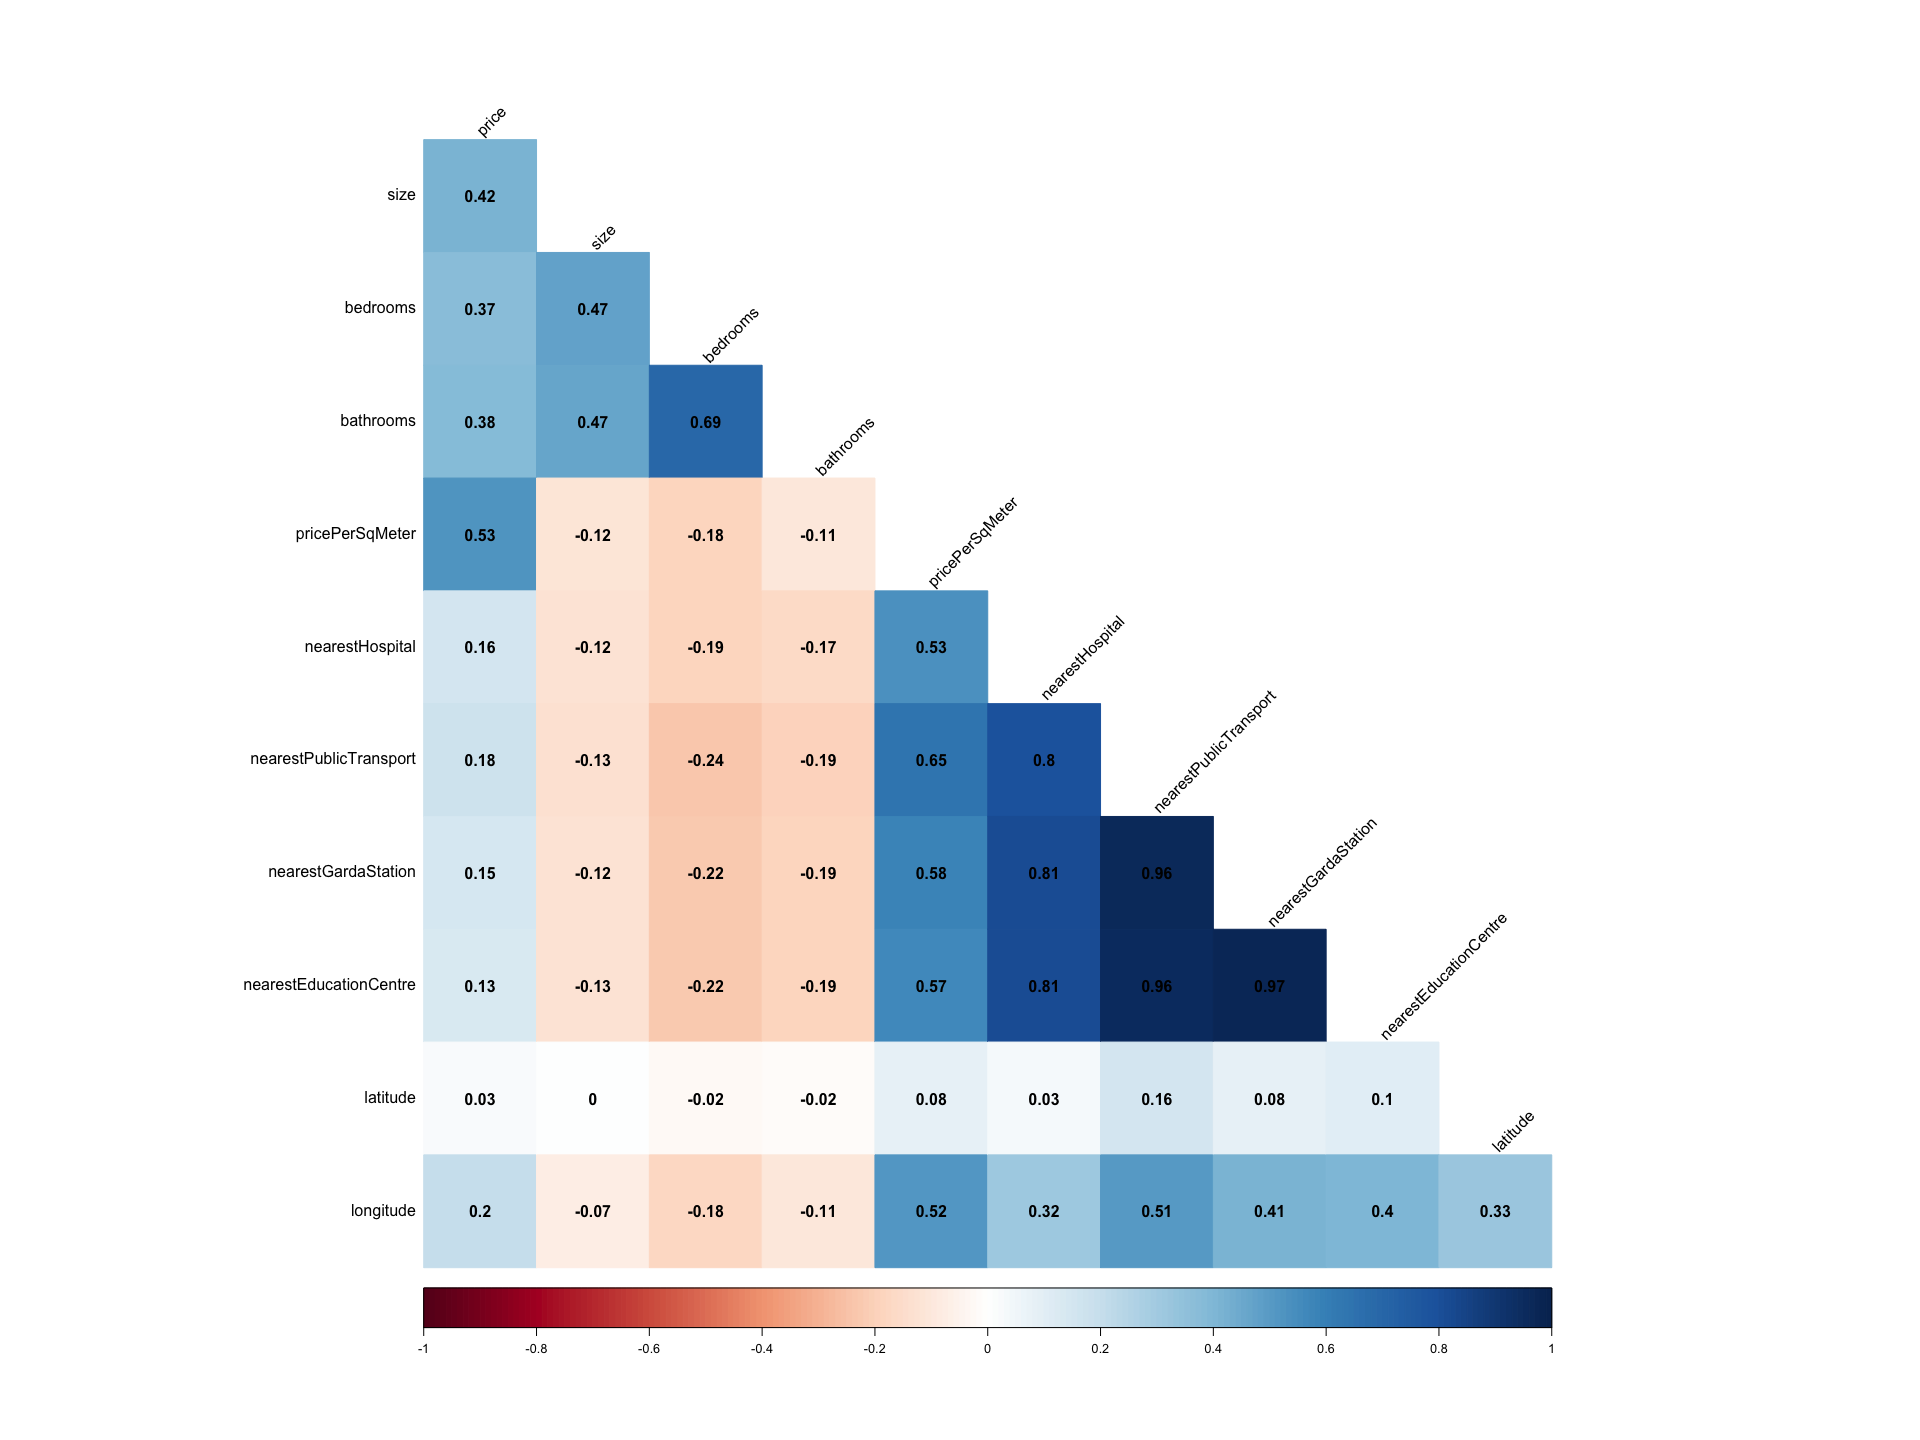
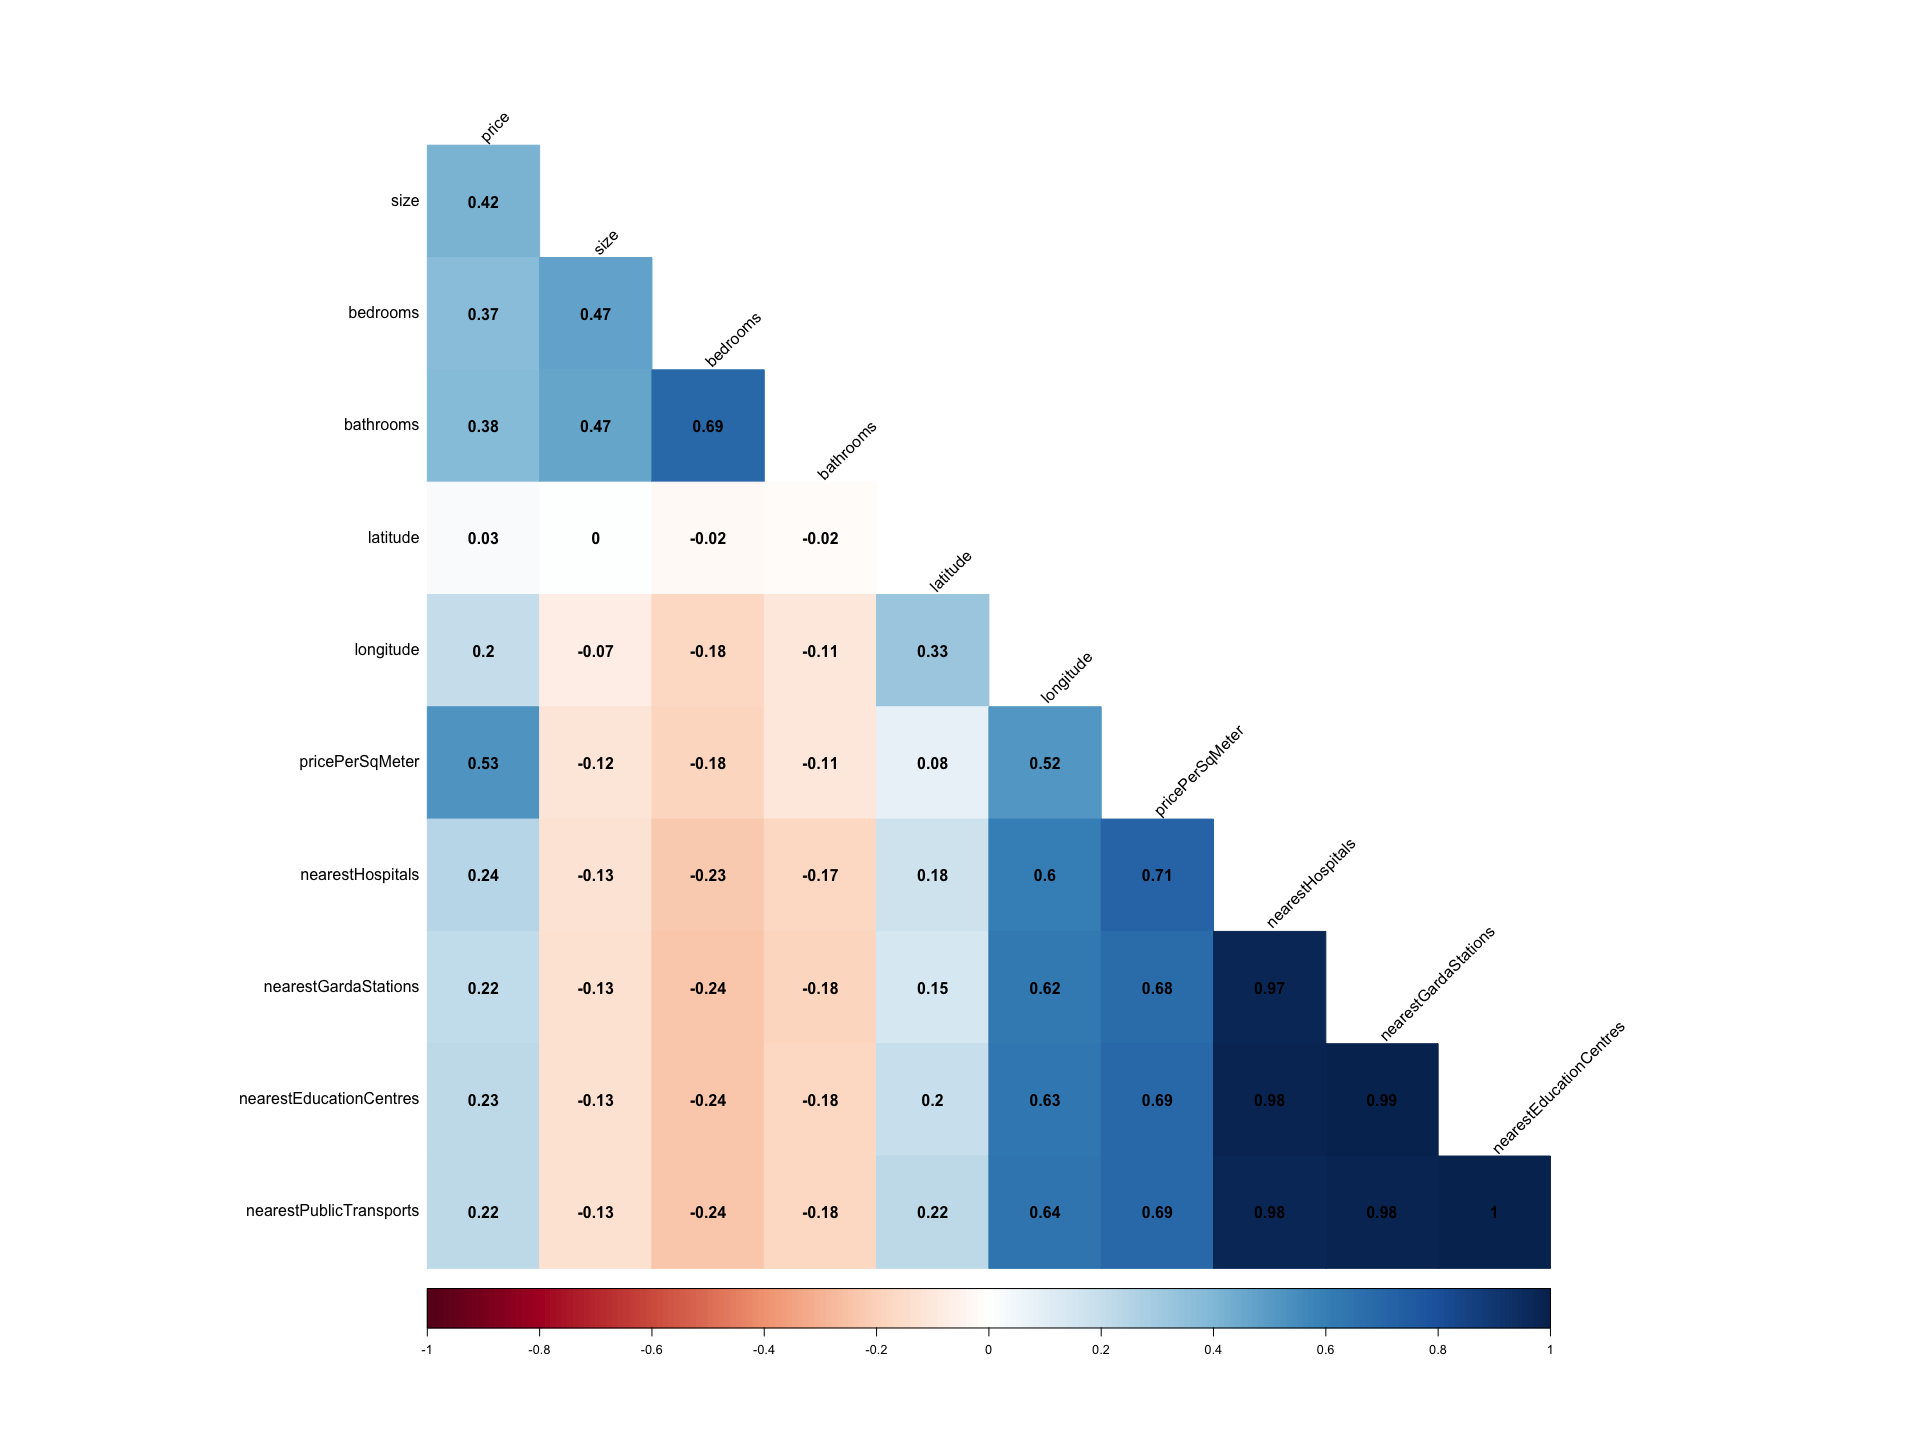
feat: add Feature Engineering section

diff --git a/scripts/exploration/DataExploration-HousingDataset.md b/scripts/exploration/DataExploration-HousingDataset.md
@@ -65,10 +65,10 @@ Marcos Cavalcante
   Engineering</a>
   - <a href="#price-per-square-meter" id="toc-price-per-square-meter">Price
     per square meter</a>
-  - <a href="#nearest-hospital" id="toc-nearest-hospital">Nearest
-    Hospital</a>
-  - <a href="#nearest-garda-station" id="toc-nearest-garda-station">Nearest
-    Garda Station</a>
+  - <a href="#nearest-hospitals" id="toc-nearest-hospitals">Nearest
+    Hospitals</a>
+  - <a href="#nearest-garda-stations"
+    id="toc-nearest-garda-stations">Nearest Garda Stations</a>
   - <a href="#nearest-education-centre"
     id="toc-nearest-education-centre">Nearest Education Centre</a>
   - <a href="#nearest-public-transport"
@@ -87,7 +87,8 @@ First step is to install and load the necessary libraries.
 packages <- c("tidyverse", "haven", "devtools", "dplyr", 
               "ggplot2", "gapminder", "patchwork", "ggridges", 
               "corrplot", "gridExtra", "sf","tmap","rgdal","rgeos",
-              "adehabitatHR", "knitr", "kableExtra", "geosphere")
+              "adehabitatHR", "knitr", "kableExtra", "geosphere", 
+              "fastDummies")
 
 if(sum(as.numeric(!packages %in% installed.packages())) != 0){
   installer <- packages[!packages %in% installed.packages()]
@@ -1070,7 +1071,9 @@ the null hypothesis (**H0**).
 #### Box Plot of BER Rating and House price
 
 ``` r
-ggplot(ireland_houses %>% filter(!(berRating == "")), aes(x = berRating, y = price)) +
+ggplot(ireland_houses %>% 
+         filter(!(berRating == "")), aes(x = berRating, y = price)) +
+  
   geom_boxplot( aes(fill = berRating), color = "black", outlier.shape = 16) +
   labs(title = "Box plot of prices by BER rating", 
        x = "BER rating", 
@@ -1211,7 +1214,8 @@ shp_ireland <- readOGR(
 
 
 create_county_map <- function() {
-  ireland_counties_sf <- st_read("../../datasets/ireland_counties.geojson", quiet = TRUE)
+  ireland_counties_sf <- st_read("../../datasets/ireland_counties.geojson", 
+                                 quiet = TRUE)
   # Transformation needed to match format of ireland_houses dataset 
   ireland_counties_sf$COUNTY <- toupper(ireland_counties_sf$COUNTY) 
   ireland_counties_sf <- rename( ireland_counties_sf, county = COUNTY)
@@ -1362,7 +1366,8 @@ mean_price_map <- mean_price_map %>% st_set_crs(value = 4326) %>% st_cast()
 tm_shape(shp = shp_ireland) + 
   tm_borders(alpha = 0.5) +
   tm_shape(shp = mean_price_map) + 
-  tmap_options(basemaps = c(Canvas = "Esri.WorldTopoMap", Imagery = "Esri.WorldImagery") ) +
+  tmap_options(basemaps = c(Canvas = "Esri.WorldTopoMap", 
+                            Imagery = "Esri.WorldImagery") ) +
   tm_polygons(
     col = "price", 
     title = "Mean House Price Per County in €", 
@@ -1392,31 +1397,38 @@ region.
 # Feature Engineering
 
 In this step, we would like to explore the creation of a some new
-variables to see if they can derive better insights into the dataset. At
-this step, 5 new variables will get created:
+variables to see if they can help derive better insights into the
+dataset. At this step, 5 new variables will get created:
 
 - Price per square meter - *pricePerSqMeter*.
-- Nearest Hospital - *nearestHospital*.
-- Nearest Garda Stations - *nearestGardaStation*.
-- Nearest Education Centre - *nearestEducationCentre*.
-- Nearest Public Transport - *nearestPublicTransport*.
+- Nearest Hospitals - *nearestHospitals*.
+- Nearest Garda Stations - *nearestGardaStations*.
+- Nearest Education Centres - *nearestEducationCentres*.
+- Nearest Public Transports - *nearestPublicTransports*.
 
 ## Price per square meter
 
-This vairable is going to be created by dividing the house price by its
-size.
+This variable is going to be created by dividing the house price by its
+size. The idea behind creating this variable is to understand the price
+per square meter for a given property and being able to define a common
+ground when comparing houses with different characteristics.
 
 ``` r
 ireland_houses <- ireland_houses %>% 
-  mutate(pricePerSqMeter = round(price/size, digits=2) )
+  mutate(pricePerSqMeter = round(price/size, digits = 2))
 ```
 
-## Nearest Hospital
+## Nearest Hospitals
 
-The *nearestHospital* is computed by finding the closest hospital to
-each house in the dataset. The hospitals dataset is used and the crow
-flies distance (straight line distance) is computed for each house
-against each hospital.
+To calculate the *nearestHospitals* value, the algorithm identifies the
+hospitals that are closest to each residence within a **16 km** radius
+using the hospitals dataset. The straight-line distance (also known as
+crow flies distance) between each house and each hospital is then
+calculated.
+
+The decision to use a 16 km radius was based on the optimal results
+obtained from the Pearson correlation method and will be consistently
+applied to all other variables.
 
 ``` r
 dataset_directory <- "../../datasets/hospitals/"
@@ -1426,31 +1438,32 @@ hospitals <- read.csv(file = hospital_filename) # Load the dataset
 
 # Define a function to compute the distance between each observation in house 
 # dataset and all observations in socio economic dataset
-get_nearest_distance <- function(houseLon, houseLat, socioEconomic) {
-  distances <- distHaversine(socioEconomic[, c("longitude", "latitude")], c(houseLon, houseLat)) / 1000
-  num_of_points_interest <- distances[ distances <= 5 ]
+count_points_of_interest_within_radius <- function(houseLon, houseLat, socioEconomic) {
+  RADIUS_OF_INTEREST_KM = 16
+  
+  distances_in_m <- distHaversine(socioEconomic[, c("longitude", "latitude")], c(houseLon, houseLat))
+  distances_in_km <- distances_in_m / 1000
+  
+  num_of_points_interest <- distances_in_km[ distances_in_km <= RADIUS_OF_INTEREST_KM ]
   return( length(num_of_points_interest) )
 }
 
 # Apply the function to each observation in housing dataset
-# and store the nearest distance in a new variable
-ireland_houses$nearestHospital <- apply(
-  ireland_houses[, c("longitude", "latitude")], 
-  1, 
-  function(x) get_nearest_distance(
-    x[1], 
-    x[2], 
-    hospitals
-  )
+# and store the nearest points in a new variable
+ireland_houses$nearestHospitals <- apply(
+  X = ireland_houses[, c("longitude", "latitude")], 
+  MARGIN = 1, 
+  FUN = function(x) count_points_of_interest_within_radius(x[1], x[2], 
+                                                           hospitals)
 )
 ```
 
-## Nearest Garda Station
+## Nearest Garda Stations
 
-The *nearestGardaStation* is computed by finding the closest garda
-station to each house in the dataset. The garda stations dataset is used
-and the crow flies distance (straight line distance) is computed for
-each house against each garda station.
+To calculate the *nearestGardaStations* value, the algorithm searches
+for the closest garda station to each house within a **16 km** radius,
+using the garda stations dataset. It then computes the straight-line
+distance between each house and each garda station.
 
 ``` r
 dataset_directory <- "../../datasets/police/"
@@ -1461,63 +1474,57 @@ garda_stations <- rename( garda_stations,
   latitude = Latitude,
   longitude = Longitude
 )
-# Apply the function to each observation in housing dataset
-# and store the nearest distance in a new variable
-ireland_houses$nearestGardaStation <- apply(
-  ireland_houses[, c("longitude", "latitude")], 
-  1, 
-  function(x) get_nearest_distance(
-    x[1], 
-    x[2], 
-    garda_stations
-  )
+
+ireland_houses$nearestGardaStations <- apply(
+  X = ireland_houses[, c("longitude", "latitude")], 
+  MARGIN = 1, 
+  FUN = function(x) count_points_of_interest_within_radius(x[1], x[2], 
+                                                           garda_stations)
 )
 ```
 
 ## Nearest Education Centre
 
-The *nearestEducationCentre* is computed by finding the closest
-education centre (university and schools) to each house in the dataset.
-The education centre dataset is used and the crow flies distance
-(straight line distance) is computed for each house against each
-education centre.
+The algorithm computes the *nearestEducationCentre* by identifying the
+closest education centers, including universities and schools, to each
+house within a *16 km* radius, utilizing the education center dataset.
+It then calculates the crow flies distance between each house and each
+education center.
 
 ``` r
 dataset_directory <- "../../datasets/education/"
 universities_filename <- paste(dataset_directory, "universities.csv", sep="")
-universities <- read.csv(file = universities_filename) # Load the dataset
+universities <- read.csv(file = universities_filename)
 
 schools_filename <- paste(dataset_directory, "schools.csv", sep="")
-schools <- read.csv(file = schools_filename) # Load the dataset
+schools <- read.csv(file = schools_filename)
 schools <- schools[, c("name", "longitude", "latitude")]
 
+# Join schools and universities datasets.
 education <- rbind( schools, universities )
 
 
-# Apply the function to each observation in housing dataset
-# and store the nearest distance in a new variable
-ireland_houses$nearestEducationCentre <- apply(
-  ireland_houses[, c("longitude", "latitude")], 
-  1, 
-  function(x) get_nearest_distance(
-    x[1], 
-    x[2], 
-    education
-  )
+
+ireland_houses$nearestEducationCentres <- apply(
+  X = ireland_houses[, c("longitude", "latitude")], 
+  MARGIN = 1, 
+  FUN = function(x) count_points_of_interest_within_radius(x[1], x[2], 
+                                                           education)
 )
 ```
 
 ## Nearest Public Transport
 
-The *nearestPublicTransport* is computed by finding the closest public
-transport (bus stop and train station) to each house in the dataset. The
-public transport dataset is used and the crow flies distance (straight
-line distance) is computed for each house against each public transport.
+To calculate the *nearestPublicTransports*, the algorithm identifies the
+closest public transport options, including bus stops and train
+stations, to each house in the dataset, utilizing the public transport
+dataset. It then calculates the straight-line distance between each
+house and each public transport option.
 
 ``` r
 dataset_directory <- "../../datasets/transport/"
 trains_filename <- paste(dataset_directory, "train_stations.csv", sep="")
-trains <- read.csv(file = trains_filename) # Load the dataset
+trains <- read.csv(file = trains_filename) 
 
 bus_filename <- paste(dataset_directory, "bus_stops_ireland.csv", sep="")
 bus <- read.csv(file = bus_filename) # Load the dataset
@@ -1534,24 +1541,26 @@ trains <- rename( trains,
   longitude = StationLongitude
 )
 
-
+# Join trains and buses datasets
 transport <- rbind( bus, trains )
 
-
-# Apply the function to each observation in housing dataset
-# and store the nearest distance in a new variable
-ireland_houses$nearestPublicTransport <- apply(
-  ireland_houses[, c("longitude", "latitude")], 
-  1, 
-  function(x) get_nearest_distance(
-    x[1], 
-    x[2], 
-    transport
-  )
+ireland_houses$nearestPublicTransports <- apply(
+  X = ireland_houses[, c("longitude", "latitude")], 
+  MARGIN = 1, 
+  FUN = function(x) count_points_of_interest_within_radius(x[1], x[2], 
+                                                           transport)
 )
 ```
 
 ## Correlation Matrix with New Features
+
+The 5 new features were used to compute a correlation matrix, and the
+outcome was deemed satisfactory. One noticeable observation is that the
+variable *pricePerSqMeter* has a moderately positive correlation with
+the *price* variable. Furthermore, the variables
+*nearestPublicTransports*, *nearestEducationCentres*,
+*nearestGardaStations*, and *nearestHospitals* also exhibit a positive
+correlation with *price*, although weakly.
 
 ``` r
 correlation_matrix <- cor(select_if(ireland_houses, is.numeric))
